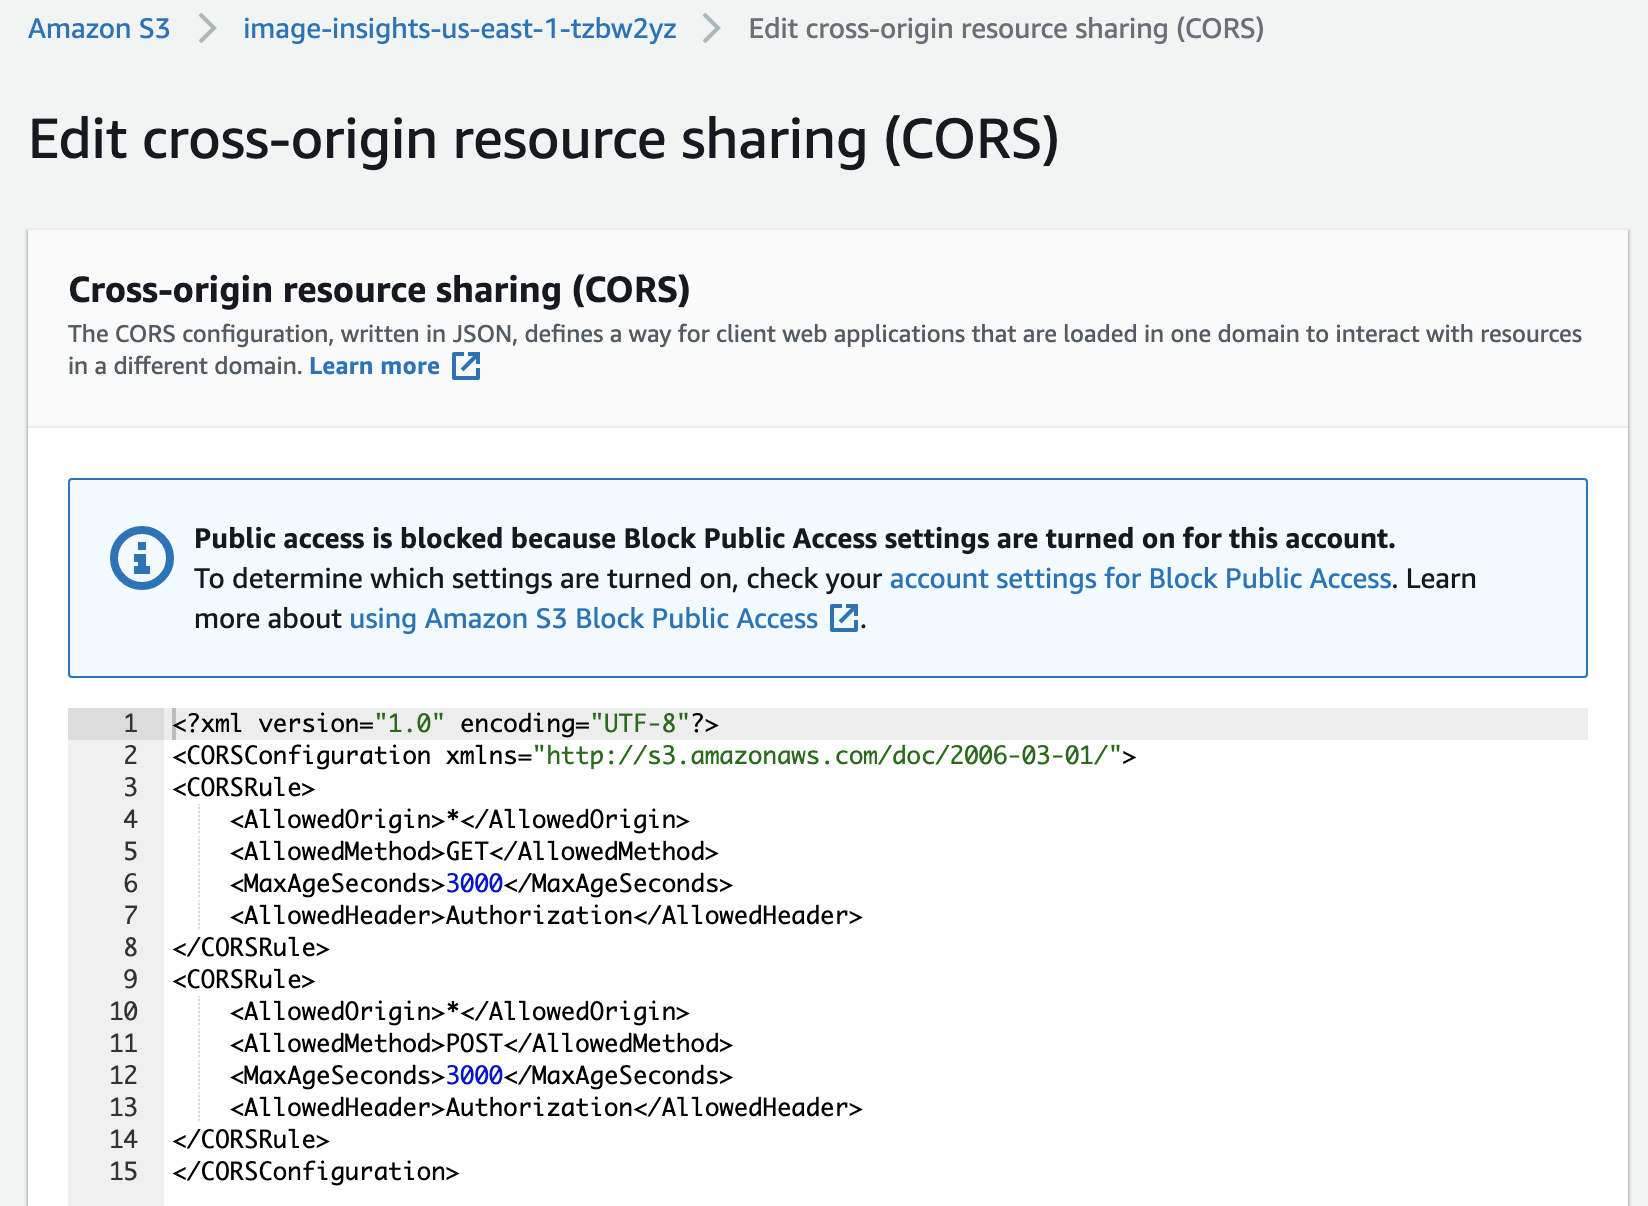
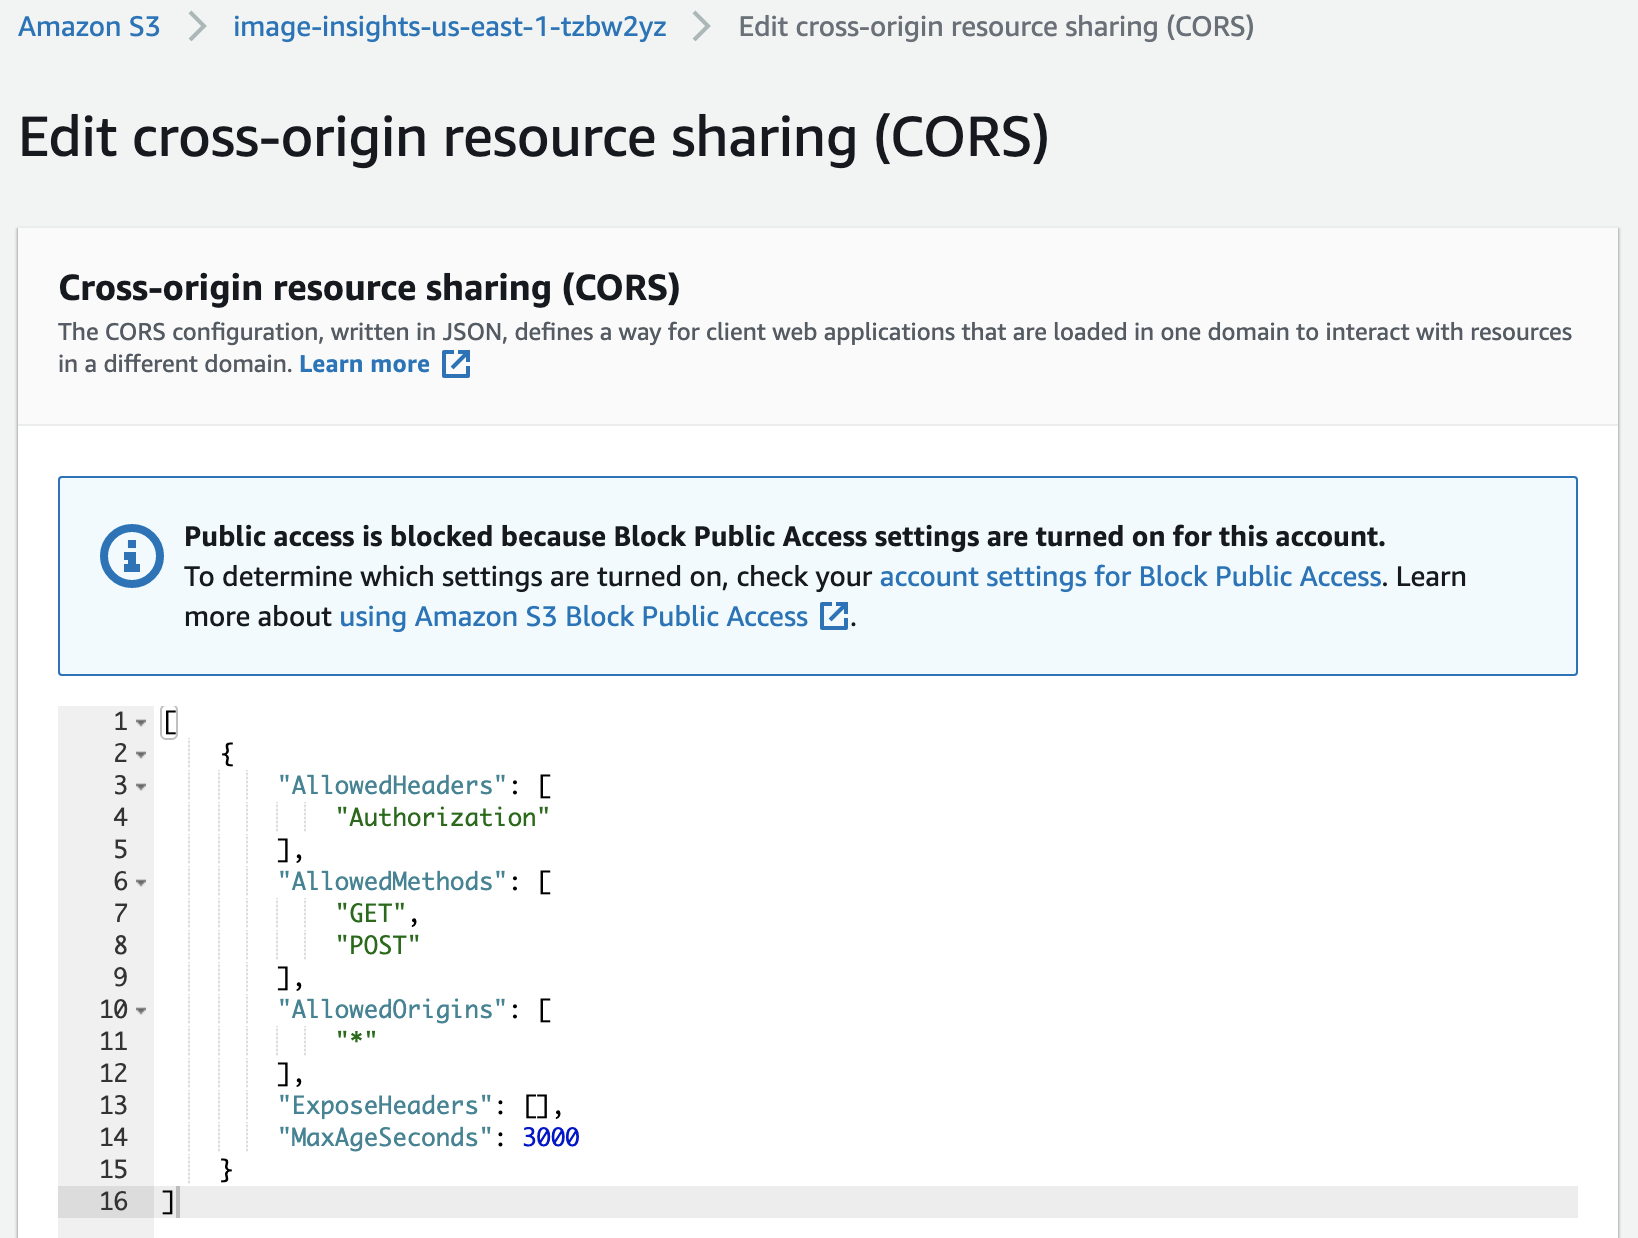
create POST Method for browser based s3 uploader

diff --git a/image_insights/image_insights_stack.py b/image_insights/image_insights_stack.py
@@ -27,7 +27,7 @@ class ImageInsightsStack(core.Stack):
 
     # The code that defines your stack goes here
     vpc = aws_ec2.Vpc(self, "ImageInsightsVPC",
-      # cidr="10.31.0.0/21",
+      cidr="10.31.0.0/21",
       max_azs=2,
       # subnet_configuration=[{
       #     "cidrMask": 24,
@@ -56,6 +56,31 @@ class ImageInsightsStack(core.Stack):
     s3_image_bucket_name_suffix = self.node.try_get_context('image_bucket_name_suffix')
     s3_bucket = s3.Bucket(self, "s3bucket",
       bucket_name="image-insights-{region}-{suffix}".format(region=core.Aws.REGION, suffix=s3_image_bucket_name_suffix))
+
+    s3_bucket.add_cors_rule(allowed_methods=[s3.HttpMethods.GET, s3.HttpMethods.POST],
+      allowed_origins=['*'],
+      allowed_headers=['Authorization'],
+      max_age=3000
+    )
+
+    s3_access_key_id = self.node.try_get_context('s3_access_key_id')
+    s3_secret_key = self.node.try_get_context('s3_secret_key')
+    sign_s3_post_lambda_fn = _lambda.Function(self, "SignS3Post",
+      runtime=_lambda.Runtime.PYTHON_3_7,
+      function_name="SignS3Post",
+      handler="sign_s3_post.lambda_handler",
+      description="Return Signature4 for S3",
+      code=_lambda.Code.asset("./src/main/python/SignS3Post"),
+      environment={
+        'ACCESS_KEY': s3_access_key_id,
+        'SECRET_KEY': s3_secret_key
+      },
+      timeout=core.Duration.minutes(5)
+    )
+    log_group = aws_logs.LogGroup(self, "SignS3PostLogGroup",
+      log_group_name="/aws/lambda/SignS3Post",
+      retention=aws_logs.RetentionDays.THREE_DAYS)
+    log_group.grant_write(sign_s3_post_lambda_fn)
 
     api = apigw.RestApi(self, "ImageAutoTaggerUploader",
       rest_api_name="ImageAutoTaggerUploader",
@@ -119,6 +144,33 @@ class ImageInsightsStack(core.Stack):
         'method.request.header.Content-Type': False
       }
     )
+
+    post_s3_lambda_integration = apigw.LambdaIntegration(sign_s3_post_lambda_fn,
+     proxy=False,
+     integration_responses=[{
+       'statusCode': '200',
+       'responseParameters': {
+         'method.response.header.Access-Control-Allow-Origin': "'*'",
+       }
+     }]
+    )
+
+    api.root.add_method('POST',
+      post_s3_lambda_integration,
+      method_responses=[apigw.MethodResponse(status_code="200",
+          response_parameters={
+            'method.response.header.Content-Type': False,
+            'method.response.header.Access-Control-Allow-Origin': True
+          },
+          response_models={
+            'application/json': apigw.EmptyModel()
+          }
+        ),
+        apigw.MethodResponse(status_code="400"),
+        apigw.MethodResponse(status_code="500")
+      ],
+    )
+    self.add_cors_options(api.root)
 
     get_s3_folder_integration_options = apigw.IntegrationOptions(
       credentials_role=rest_api_role,
@@ -415,3 +467,33 @@ class ImageInsightsStack(core.Stack):
       log_group_name="/aws/lambda/AutomaticImageTagger",
       retention=aws_logs.RetentionDays.THREE_DAYS)
     log_group.grant_write(auto_img_tagger_lambda_fn)
+
+
+  def add_cors_options(self, apigw_resource):
+    apigw_resource.add_method('OPTIONS', apigw.MockIntegration(
+        integration_responses=[{
+          'statusCode': '200',
+          'responseParameters': {
+            # 'method.response.header.Access-Control-Allow-Headers': "'Content-Type,X-Amz-Date,Authorization,X-Api-Key,X-Amz-Security-Token'",
+            'method.response.header.Access-Control-Allow-Headers': "'*'",
+            'method.response.header.Access-Control-Allow-Origin': "'*'",
+            'method.response.header.Access-Control-Allow-Methods': "'GET,POST,OPTIONS'"
+          }
+        }],
+        passthrough_behavior=apigw.PassthroughBehavior.WHEN_NO_MATCH,
+        request_templates={"application/json":"{\"statusCode\":200}"}
+      ),
+      method_responses=[apigw.MethodResponse(status_code="200",
+        response_parameters={
+          'method.response.header.Content-Type': False,
+          'method.response.header.Access-Control-Allow-Headers': True,
+          'method.response.header.Access-Control-Allow-Methods': True,
+          'method.response.header.Access-Control-Allow-Origin': True,
+        },
+        response_models={
+            'application/json': apigw.EmptyModel()
+        }),
+        apigw.MethodResponse(status_code="400"),
+        apigw.MethodResponse(status_code="500")
+      ]
+   )

diff --git a/src/main/python/SignS3Post/sign_s3_post.py b/src/main/python/SignS3Post/sign_s3_post.py
@@ -1,0 +1,120 @@
+#!/usr/bin/env python3
+# -*- encoding: utf-8 -*-
+# vim: tabstop=2 shiftwidth=2 softtabstop=2 expandtab
+
+#***************************************************************************************/
+#*
+#*  Title: signS3POST.py
+#*  Description: Lambda Function for Signing POST request to S3(Direct Uploads)
+#*  Author: Beomi
+#*  Availability: https://gist.github.com/Beomi/ac9d34dbfa9a6bdaf4a0426e8b83b4e3
+#*
+#***************************************************************************************/
+
+import base64
+import hashlib
+import hmac
+import json
+import logging
+import os
+
+logger = logging.getLogger()
+if len(logger.handlers) > 0:
+  # The Lambda environment pre-configures a handler logging to stderr.
+  # If a handler is already configured, `.basicConfig` does not execute.
+  # Thus we set the level directly.
+  logger.setLevel(logging.INFO)
+else:
+  logging.basicConfig(level=logging.INFO)
+
+ACCESS_KEY = os.environ.get('ACCESS_KEY')
+SECRET_KEY = os.environ.get('SECRET_KEY')
+
+
+# Key derivation functions. See:
+# http://docs.aws.amazon.com/general/latest/gr/signature-v4-examples.html#signature-v4-examples-python
+def sign(key, msg):
+  return hmac.new(key, msg.encode("utf-8"), hashlib.sha256).digest()
+
+
+def getSignatureKey(key, date_stamp, regionName, serviceName):
+  kDate = sign(('AWS4' + key).encode('utf-8'), date_stamp)
+  kRegion = sign(kDate, regionName)
+  kService = sign(kRegion, serviceName)
+  kSigning = sign(kService, 'aws4_request')
+  return kSigning
+
+
+def sign_policy(policy, credential):
+  """ Sign and return the policy document for a simple upload.
+  http://aws.amazon.com/articles/1434/#signyours3postform """
+  base64_policy = base64.b64encode(policy)
+  parts = credential.split('/')
+  date_stamp = parts[1]
+  region = parts[2]
+  service = parts[3]
+
+  signedKey = getSignatureKey(SECRET_KEY, date_stamp, region, service)
+  signature = hmac.new(signedKey, base64_policy, hashlib.sha256).hexdigest()
+
+  base64_policy = base64_policy.decode('utf-8')
+  return {'policy': base64_policy, 'signature': signature}
+
+
+def sign_headers(headers):
+  """ Sign and return the headers for a chunked upload. """
+  # headers = str(bytearray(headers, 'utf-8'))  # hmac doesn't want unicode
+  parts = headers.split('\n')
+  canonical_request = ('\n'.join(parts[3:]))
+  algorithm = parts[0]
+  amz_date = parts[1]
+  credential_scope = parts[2]
+  string_to_sign = "\n".join([algorithm, amz_date, credential_scope,
+    hashlib.sha256(canonical_request.encode('utf-8')).hexdigest()])
+
+  cred_parts = credential_scope.split('/')
+  date_stamp = cred_parts[0]
+  region = cred_parts[1]
+  service = cred_parts[2]
+  signed_key = getSignatureKey(SECRET_KEY, date_stamp, region, service)
+  signature = hmac.new(signed_key, string_to_sign.encode('utf-8'), hashlib.sha256).hexdigest()
+
+  return {'signature': signature}
+
+
+def lambda_handler(event, context):
+  """ Route for signing the policy document or REST headers. """
+
+  logger.info('event: %s' % event)
+  request_payload = event
+  if request_payload.get('headers'):
+    response_data = sign_headers(request_payload['headers'])
+  else:
+    credential = list([c for c in request_payload['conditions'] if 'x-amz-credential' in c][0].values())[0]
+    logger.info('credential=%s, data_type=%s' % (credential, type(credential)))
+    response_data = sign_policy(json.dumps(event).encode('utf-8'), str(credential))
+  return response_data
+
+
+if __name__ == '__main__':
+  import pprint
+
+  ACCESS_KEY = 'AKIAIOSFODNN7EXAMPLE'
+  SECRET_KEY = 'wJalrXUtnFEMI/K7MDENG/bPxRfiCYEXAMPLEKEY'
+
+  event = {
+    'expiration': '2020-11-18T09:18:59.290Z',
+     'conditions': [{'acl': 'private'},
+                    {'bucket': 'image-insights-us-east-1-zy2wbzt'},
+                    {'Content-Type': 'image/jpeg'},
+                    {'success_action_status': '200'},
+                    {'x-amz-algorithm': 'AWS4-HMAC-SHA256'},
+                    {'key': 'raw-image/img7.jpeg'},
+                    {'x-amz-credential': 'AKIAIOSFODNN7EXAMPLE/20201118/us-east-1/s3/aws4_request'},
+                    {'x-amz-date': '20201118T091359Z'},
+                    {'x-amz-meta-qqfilename': 'sample_image.jpeg'}]
+  }
+
+  res = lambda_handler(event, {})
+  pprint.pprint(res)
+
